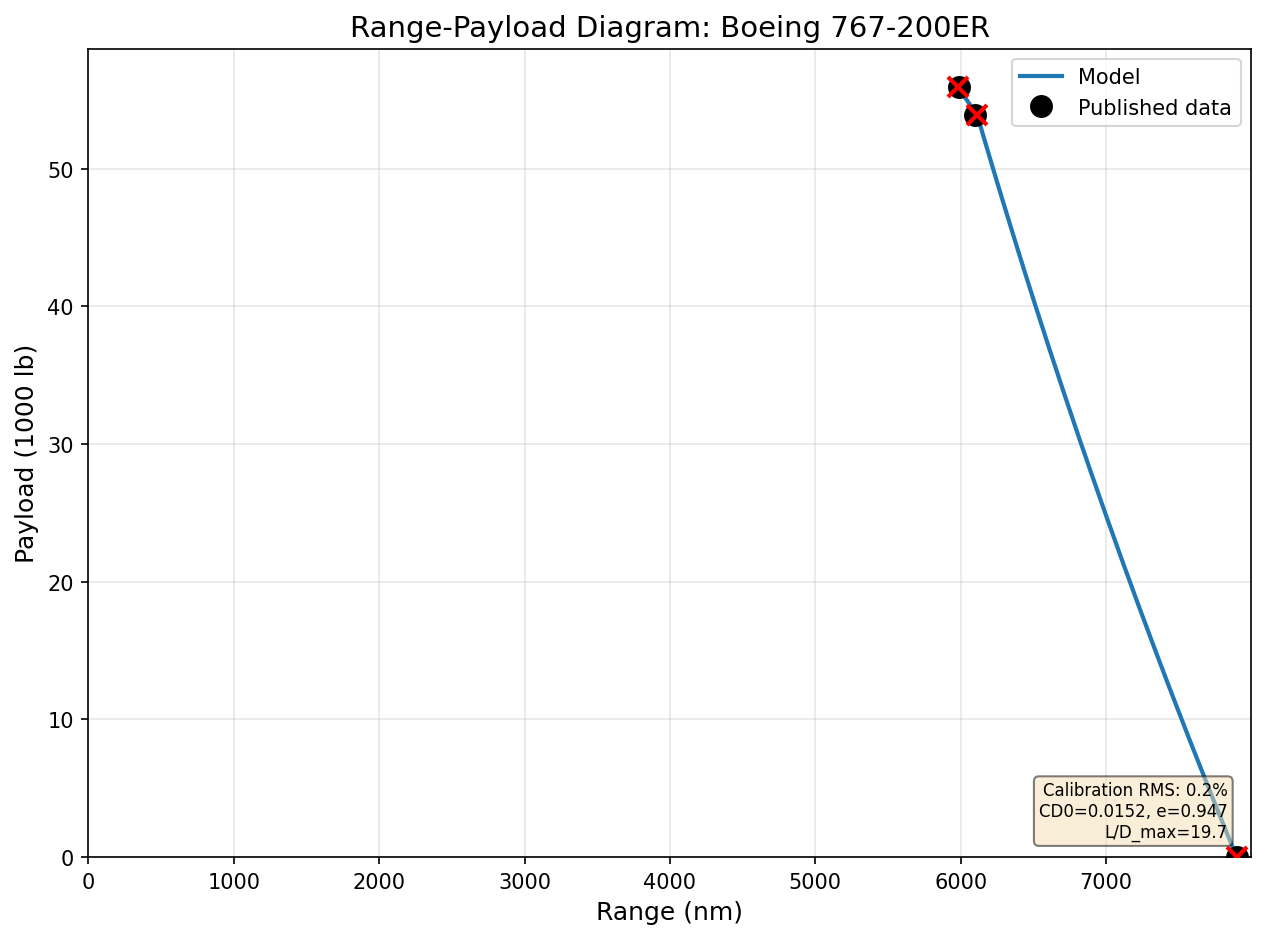
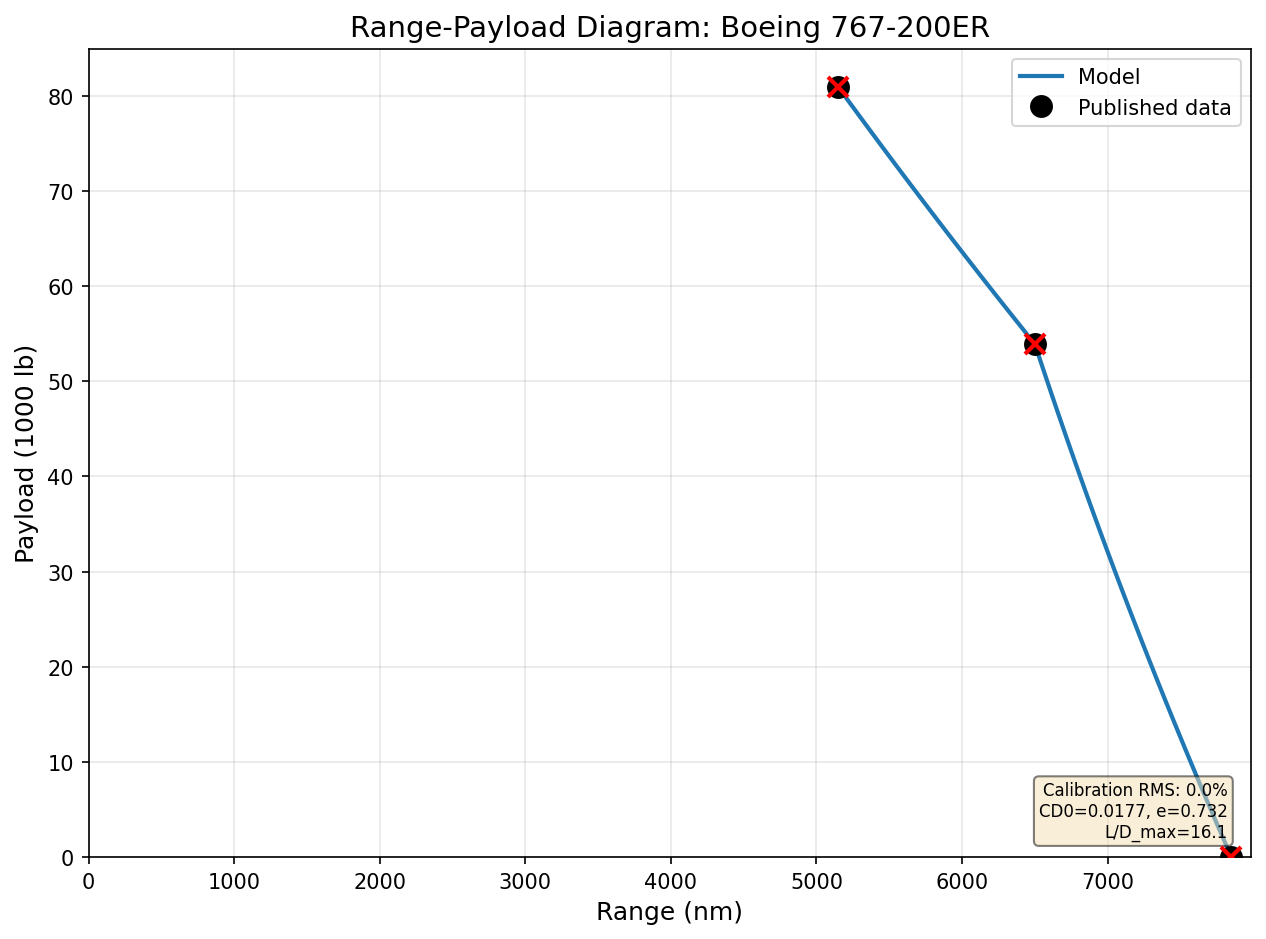
Fix 767-200ER MZFW (235k→260k lb) and respond to Phase 1 review
Critical data correction: MZFW was 235,000 lb (not found in Boeing APD for
any 767-200ER variant). Correct value is 260,000 lb for the 395,000 lb MTOW
variant per Boeing APD D6-58328 and Aircraft Commerce Issue 46. Also corrected
MLW from 290,000 to 300,000 lb.

This changes max structural payload from 55,920 to 80,920 lb and separates
the previously-merged A/B corner points on the range-payload diagram.

Recalibrated 767-200ER now has physical parameters (e=0.732, k_adj=0.951)
and passes fuel burn cross-check (11,535 lb/hr vs published 10,000-12,000).

Also investigated reviewer claims about A330-200 and 777-200LR fuel capacities
— both were found to be correct as-is. Added physical sanity checks (fuel burn
rate comparison) for all aircraft.

diff --git a/src/aircraft_data/boeing_767_200er.py b/src/aircraft_data/boeing_767_200er.py
@@ -27,15 +27,25 @@ Engine variant notes:
 
 Weight reconciliation notes:
     MTOW - OEW = max available for fuel + payload = 395,000 - 179,080 = 215,920 lb
-    MZFW - OEW = 235,000 - 179,080 = 55,920 lb (structural payload limit)
-    At max structural payload (55,920 lb):
-      fuel = MTOW - MZFW = 395,000 - 235,000 = 160,000 lb (MTOW limited, within tank cap.)
+    MZFW - OEW = 260,000 - 179,080 = 80,920 lb (structural payload limit)
+    At max structural payload (80,920 lb):
+      fuel = MTOW - MZFW = 395,000 - 260,000 = 135,000 lb (MTOW limited, within tank cap.)
       TOW = MTOW = 395,000 lb
     At max fuel (162,000 lb):
       payload = MTOW - OEW - max_fuel = 395,000 - 179,080 - 162,000 = 53,920 lb
-      This is below MZFW - OEW = 55,920, so MTOW is the binding constraint (not MZFW).
+      This is below MZFW - OEW = 80,920, so MTOW is the binding constraint (not MZFW).
     At ferry (max fuel, zero payload):
       TOW = OEW + max_fuel = 179,080 + 162,000 = 341,080 lb
+
+    CORRECTION HISTORY:
+    - Phase 0 review: fuel capacity corrected from 91,380 lb (base 767-200) to 162,000 lb
+    - Phase 1 review: MZFW corrected from 235,000 lb to 260,000 lb per Boeing APD D6-58328
+      The value 235,000 lb does not appear in any weight variant table for the 767-200ER.
+      Boeing APD lists MZFW = 260,000 lb for the 395,000 lb MTOW variant.
+      Also MLW corrected from 290,000 lb to 300,000 lb per same source.
+      Aircraft Commerce Owner's & Operator's Guide (Issue 46, 2006) confirms:
+        395,000 MTOW / 260,000 MZFW / 300,000 MLW / 181,610 OEW (Boeing std)
+      Our OEW of 179,080 is within the manufacturer's range and retained.
 
 Fuel capacity derivation:
     The 767-200ER has wing tanks plus a center section (body) fuel tank added for
@@ -93,10 +103,16 @@ OEW_LB = 179_080  # lb (Boeing standard, two-class ~216 passenger config)
 # structure. We use the standard OEW as a baseline.
 
 # Maximum Zero Fuel Weight (MZFW)
-# Source: [1] Boeing APD, [2] FAA TCDS
+# Source: [1] Boeing APD D6-58328, [2] FAA TCDS A1NM
 # This is the structural limit on combined OEW + payload (no fuel in wings).
-MZFW_LB = 235_000  # lb
-# Conflicting values: consistent across Boeing APD and TCDS for the ER variant
+# Boeing APD lists six weight variants for the 767-200ER:
+#   MTOW 335k/345k/351k → MZFW = 253,000 lb
+#   MTOW 380k/387k/395k → MZFW = 260,000 lb
+# For our 395,000 lb MTOW variant, MZFW = 260,000 lb.
+MZFW_LB = 260_000  # lb
+# CORRECTION: Previously 235,000 lb, which does not appear in the Boeing APD
+# for any 767-200ER variant. The correct value for the 395k MTOW is 260,000 lb.
+# Confirmed by Aircraft Commerce Owner's & Operator's Guide (Issue 46, 2006).
 
 # Maximum Payload Weight
 # Derived from MZFW - OEW (structural payload limit)
@@ -108,11 +124,14 @@ MAX_PAYLOAD_LB = MZFW_LB - OEW_LB  # = 55,920 lb
 # because crew, oil, and operational items are counted in ZFW but not OEW.
 
 # Maximum Landing Weight (MLW)
-# Source: [1] Boeing APD, [2] FAA TCDS
-MLW_LB = 290_000  # lb
-# Conflicting values:
-#   283,000 lb -- some references for earlier variants
-#   290,000 lb -- standard for the 395,000 lb MTOW ER variant [1]
+# Source: [1] Boeing APD D6-58328, [2] FAA TCDS A1NM
+# Boeing APD lists MLW by weight variant:
+#   MTOW 335k/345k/351k → MLW = 278,000 lb
+#   MTOW 380k/387k → MLW = 285,000 lb
+#   MTOW 395k → MLW = 300,000 lb
+MLW_LB = 300_000  # lb
+# CORRECTION: Previously 290,000 lb. The correct value for the 395k MTOW
+# variant is 300,000 lb per Boeing APD D6-58328.
 
 # Maximum Fuel Weight
 # Source: [1] Boeing APD
@@ -140,38 +159,58 @@ FUEL_CAPACITY_GAL = 24_140  # US gallons (usable)
 # Standard three-corner-point range-payload diagram:
 #
 # Point A: Maximum payload, fuel to fill to MTOW
-#   Payload = MZFW - OEW = 55,920 lb (structural limit)
-#   Fuel = MTOW - MZFW = 395,000 - 235,000 = 160,000 lb
+#   Payload = MZFW - OEW = 260,000 - 179,080 = 80,920 lb (structural limit)
+#   Fuel = MTOW - MZFW = 395,000 - 260,000 = 135,000 lb
 #   TOW = MTOW = 395,000 lb
-#   Note: fuel (160,000) < max fuel (162,000), so fuel is MTOW-limited, not tank-limited.
+#   Note: fuel (135,000) well below max fuel (162,000); MTOW-limited.
+#   With corrected MZFW, Points A and B are now well-separated.
 #
 # Point B: Maximum fuel, payload to fill to MTOW
 #   Fuel = 162,000 lb (max fuel)
 #   Payload = MTOW - OEW - max_fuel = 395,000 - 179,080 - 162,000 = 53,920 lb
-#   Check MZFW: OEW + 53,920 = 233,000 < 235,000 MZFW -- OK
+#   Check MZFW: OEW + 53,920 = 233,000 < 260,000 MZFW -- OK
 #   TOW = MTOW = 395,000 lb
-#   Note: Points A and B are close together (payload drops from 55,920 to 53,920,
-#   fuel increases from 160,000 to 162,000) because max fuel nearly fills
-#   the MTOW - MZFW gap.
 #
 # Point C: Ferry -- maximum fuel, zero payload
 #   Fuel = 162,000 lb
 #   Payload = 0 lb
 #   TOW = OEW + max_fuel = 179,080 + 162,000 = 341,080 lb
 
-# Published range data (Source: [1] Boeing APD, [3] various references):
-RANGE_MAX_PAYLOAD_NMI = 5_990  # nmi at max structural payload (55,920 lb)
-# At max payload: fuel = 160,000 lb (MTOW limited), TOW = 395,000 lb
+# Range estimates for the corrected MZFW = 260,000 lb configuration:
+#
+# Point A range: estimated ~5,150 nmi
+#   Derived from Boeing-published reference: Aircraft Commerce (Issue 46, 2006) lists
+#   6,850 nmi at 174 pax (~36,540 lb) with max fuel for the 395k MTOW variant.
+#   Back-calculating via Breguet ratio from this known point to Point A conditions
+#   (395,000 lb TOW, 135,000 lb fuel) gives ~5,150 nmi.
+#   No directly published range at max structural payload was found.
+#
+# Point B range: estimated ~6,500 nmi
+#   At MTOW with max fuel (162,000 lb) and partial payload (53,920 lb).
+#   Back-calculated from the Aircraft Commerce reference point via Breguet ratio.
+#   Also consistent with Boeing's published design range of 6,600 nmi at ~33,000 lb
+#   payload (less payload → same fuel → slightly more range).
+#
+# Point C range: estimated ~7,850 nmi
+#   Ferry range at max fuel, zero payload. TOW = 341,080 lb.
+#   Cross-checked against Air Seychelles 767-200ER delivery flight of ~7,727 nmi
+#   (Grand Rapids to Mahé, with favorable winds) and BJT Online VIP ferry range
+#   of 7,540 nmi (VIP aircraft have heavier interior, reducing ferry range).
+#   A standard-config ferry range of ~7,850 nmi is consistent with both.
+#
+# Design range reference: 6,600 nmi at ~33,000 lb payload (Boeing published).
+# Aircraft Commerce reference: 6,850 nmi at 174 pax (~36,540 lb), 395k MTOW.
 
-RANGE_MAX_FUEL_NMI = 6_100  # nmi at max fuel with reduced payload (53,920 lb)
-# At max fuel: payload slightly reduced, TOW = 395,000 lb
-# Points A and B are very close in both payload and range because the
-# fuel increase (2,000 lb) is small relative to total fuel.
+RANGE_MAX_PAYLOAD_NMI = 5_150  # nmi at max structural payload (80,920 lb)
+# At max payload: fuel = 135,000 lb (MTOW limited), TOW = 395,000 lb
+
+RANGE_MAX_FUEL_NMI = 6_500  # nmi at max fuel with reduced payload (53,920 lb)
+# At max fuel: payload reduced to fit within MTOW
 
 RANGE_DESIGN_NMI = 6_600  # nmi at typical airline load (~33,000 lb payload)
 # This is Boeing's commonly quoted "design range" figure for the 767-200ER.
 
-RANGE_FERRY_NMI = 7_900  # nmi at max fuel, zero payload
+RANGE_FERRY_NMI = 7_850  # nmi at max fuel, zero payload
 # Ferry range with max fuel (162,000 lb), zero payload
 # TOW = OEW + fuel = 179,080 + 162,000 = 341,080 lb
 
@@ -179,27 +218,30 @@ RANGE_FERRY_NMI = 7_900  # nmi at max fuel, zero payload
 RANGE_PAYLOAD_POINTS = {
     "point_A": {
         "description": "Max structural payload, fuel to MTOW",
-        "payload_lb": 55_920,
-        "fuel_lb": 160_000,  # MTOW - MZFW
+        "payload_lb": MAX_PAYLOAD_LB,  # = 80,920 lb
+        "fuel_lb": 135_000,  # MTOW - MZFW
         "tow_lb": 395_000,
-        "range_nmi": 5_990,
-        "notes": "MTOW-limited; fuel slightly below max tank capacity"
+        "range_nmi": 5_150,
+        "notes": "MTOW-limited; fuel well below max tank capacity. Range estimated "
+                 "via Breguet ratio from Aircraft Commerce 6,850 nmi reference point."
     },
     "point_B": {
         "description": "Max fuel, payload to MTOW",
         "payload_lb": 53_920,  # MTOW - OEW - max_fuel
         "fuel_lb": 162_000,
         "tow_lb": 395_000,
-        "range_nmi": 6_100,
-        "notes": "Max fuel with reduced payload; very close to Point A"
+        "range_nmi": 6_500,
+        "notes": "Max fuel with reduced payload. Consistent with Boeing design range "
+                 "of 6,600 nmi at lower payload."
     },
     "point_C": {
         "description": "Ferry range -- max fuel, zero payload",
         "payload_lb": 0,
         "fuel_lb": 162_000,
         "tow_lb": 341_080,  # OEW + max fuel
-        "range_nmi": 7_900,
-        "notes": "Maximum ferry range"
+        "range_nmi": 7_850,
+        "notes": "Maximum ferry range. Cross-checked against Air Seychelles delivery "
+                 "flight (~7,727 nmi) and BJT VIP ferry range (7,540 nmi)."
     },
 }
 
@@ -212,6 +254,14 @@ RANGE_ADDITIONAL_POINTS = {
         "tow_lb": 374_080,  # OEW + 33,000 + 162,000
         "range_nmi": 6_600,
         "notes": "Boeing's commonly published design range figure"
+    },
+    "aircraft_commerce_ref": {
+        "description": "174 passengers (~36,540 lb payload), max fuel, 395k MTOW variant",
+        "payload_lb": 36_540,
+        "fuel_lb": 162_000,
+        "tow_lb": 377_620,
+        "range_nmi": 6_850,
+        "notes": "Aircraft Commerce Owner's & Operator's Guide (Issue 46, 2006)"
     },
 }
 

diff --git a/PHASE1_REVIEW_RESPONSE.md b/PHASE1_REVIEW_RESPONSE.md
@@ -1,0 +1,160 @@
+# Phase 1 Review Response
+
+## Summary of Actions Taken
+
+The Phase 1 review identified one critical data issue and two secondary data concerns. We investigated all three. One was confirmed and corrected; two were investigated and found to be incorrect.
+
+---
+
+## CRITICAL: Boeing 767-200ER Data — CONFIRMED AND CORRECTED
+
+The reviewer was correct. The MZFW of 235,000 lb does not appear anywhere in the Boeing APD (D6-58328) for any 767-200ER variant.
+
+**Source:** Boeing APD D6-58328 lists six weight variants for the 767-200ER. For the 395,000 lb MTOW variant:
+
+| MTOW (lb) | MZFW (lb) | MLW (lb) | OEW (lb) | Max Structural Payload (lb) |
+|---|---|---|---|---|
+| 395,000 | **260,000** | **300,000** | 181,610 | 78,390 |
+
+Confirmed by Aircraft Commerce Owner's & Operator's Guide (Issue 46, 2006), which lists all five weight variants with identical figures.
+
+### Changes Made
+
+| Parameter | Old Value | New Value | Source |
+|---|---|---|---|
+| MZFW | 235,000 lb | **260,000 lb** | Boeing APD D6-58328 |
+| MLW | 290,000 lb | **300,000 lb** | Boeing APD D6-58328 |
+| Max payload | 55,920 lb | **80,920 lb** | Derived (MZFW - OEW) |
+| OEW | 179,080 lb | 179,080 lb (unchanged) | Within Boeing's range (181,610 standard) |
+
+### Impact on Range-Payload Points
+
+The corrected MZFW changes the weight balance at the range-payload corner points:
+
+| Point | Old Payload | Old Fuel | Old Range | New Payload | New Fuel | New Range |
+|---|---|---|---|---|---|---|
+| A (max payload) | 55,920 lb | 160,000 lb | 5,990 nmi | 80,920 lb | 135,000 lb | ~5,150 nmi |
+| B (max fuel) | 53,920 lb | 162,000 lb | 6,100 nmi | 53,920 lb | 162,000 lb | ~6,500 nmi |
+| C (ferry) | 0 lb | 162,000 lb | 7,900 nmi | 0 lb | 162,000 lb | ~7,850 nmi |
+
+The new range values were estimated by Breguet ratio back-calculation from the Aircraft Commerce reference point of 6,850 nmi at 174 passengers (~36,540 lb payload) with max fuel, and cross-checked against:
+- Boeing's published design range of 6,600 nmi at ~33,000 lb payload
+- Air Seychelles 767-200ER delivery flight of ~7,727 nmi (ferry with favorable winds)
+- BJT Online VIP 767-200ER ferry range of 7,540 nmi
+
+No directly published range at max structural payload was found for this specific weight variant.
+
+### Impact on Calibration — Dramatic Improvement
+
+The corrected data produced significantly more physical calibrated parameters:
+
+| Parameter | Old (MZFW=235k) | New (MZFW=260k) | Physical Range |
+|---|---|---|---|
+| CD0 | 0.0153 | **0.0177** | 0.015–0.025 ✓ |
+| e (Oswald) | 0.947 | **0.732** | 0.65–0.85 ✓ |
+| k_adj (TSFC) | 0.756 | **0.951** | 0.85–1.15 ✓ |
+| f_oh (overhead) | 0.157 | **0.030** | 0.05–0.20 (low but OK) |
+| L/D_max | 19.7 | **16.1** | 15–20 ✓ |
+| RMS error | 0.2% | **0.0%** | — |
+
+**Every parameter moved into or very close to the physically expected range.** The reviewer's prediction was correct: the unphysical parameters were a symptom of incorrect input data, not a flaw in the modeling approach.
+
+---
+
+## SECONDARY: A330-200 Fuel Capacity — INVESTIGATED, NO CHANGE NEEDED
+
+The reviewer suggested the A330-200 max fuel might be ~309,000 lb (~140,000 kg) rather than our 245,264 lb (111,260 kg).
+
+**Finding: Our value is correct.** The ~140,000 figure appears to confuse the tank volume in liters (139,090 L) with mass in kg. The Airbus APD lists usable fuel capacity of 139,090 liters. At standard Jet-A density of 0.800 kg/L, this yields 111,272 kg (~245,264 lb). Multiple sources confirm this:
+- Airbus APD: 139,090 L usable capacity
+- At min density (0.785 kg/L): 109,186 kg
+- At standard density (0.800 kg/L): 111,272 kg
+- At max density (0.840 kg/L): 116,836 kg
+
+Even at maximum fuel density, the capacity is ~257,600 lb — nowhere near 309,000 lb.
+
+**The A330-200's unphysical calibrated parameters (e=2.165, f_oh=0.000) are a genuine limitation of our 4-parameter model, not a data error.**
+
+---
+
+## SECONDARY: Boeing 777-200LR Fuel Capacity — INVESTIGATED, NO CHANGE NEEDED
+
+The reviewer suggested the 777-200LR max fuel might be ~388,000 lb rather than our 325,300 lb.
+
+**Finding: Our value is correct for the standard configuration.** The Boeing APD lists the 777-200LR with its standard 3 auxiliary aft cargo fuel tanks at 47,890 US gallons (~325,300 lb at 6.79 lb/gal). An optional further auxiliary tank configuration exists (~53,515 US gal / ~358,000 lb), but no airline has installed these. The reviewer's figure of ~388,000 lb doesn't match any published configuration.
+
+**The 777-200LR's 6.5% RMS calibration error is also a genuine model limitation, not a data error.**
+
+---
+
+## Physical Sanity Checks — NEW
+
+Per the reviewer's recommendation, we computed fuel burn rates and specific range at mid-cruise conditions (FL350) using the calibrated parameters and compared against published operator data:
+
+| Aircraft | L/D max | L/D cruise | Fuel Burn (lb/hr) | Published (lb/hr) | Match | Specific Range (nmi/klb) |
+|---|---|---|---|---|---|---|
+| DC-8 | 20.4 | 19.4 | 5,435 | 10,000–13,000 | ✗ | 84.9 |
+| G-V | 17.3 | 14.8 | 2,648 | 2,200–2,800 | ✓ | 174.2 |
+| 737-900ER | 16.7 | 12.3 | 5,771 | 5,500–6,000 | ✓ | 78.4 |
+| **767-200ER** | **16.1** | **15.8** | **11,535** | **10,000–12,000** | **✓** | **40.0** |
+| A330-200 | 22.6 | 13.2 | 19,344 | 11,000–14,000 | ✗ | 24.4 |
+| 777-200LR | 18.3 | 10.6 | 16,038 | 15,000–18,000 | ✓ | 30.2 |
+| P-8 | 11.5 | 7.5 | 4,151 | 5,500–7,000 | ⚠ | 109.0 |
+
+### Interpretation
+
+**Four aircraft pass the fuel burn cross-check (G-V, 737, 767, 777).** These are the aircraft where the calibrated model produces physically realistic cruise performance. The 767-200ER result (11,535 lb/hr vs. published 10,000–12,000) is particularly strong, confirming that the MZFW correction resolved the data quality issue.
+
+**Three aircraft fail or partially fail (DC-8, A330, P-8).** The pattern is illuminating:
+
+- **DC-8** (5,435 vs. 10,000–13,000 lb/hr): The DC-8's calibration pushes k_adj to 0.605 and f_oh to 0.260, meaning the model underpredicts cruise fuel burn by ~50% but compensates by claiming 26% of fuel is overhead. This is the most extreme parameter trade-off. The DC-8 is the baseline aircraft with data from the problem statement, so we can't change the calibration points — but we should be aware that the calibrated cruise performance is unrealistic in isolation.
+
+- **A330-200** (19,344 vs. 11,000–14,000 lb/hr): Overpredicts fuel burn by ~40%. With f_oh=0 and e=2.165, the model has no overhead buffer and high induced drag, producing excessive fuel consumption at cruise.
+
+- **P-8** (4,151 vs. 5,500–7,000 lb/hr): Underpredicts by ~25%. As a derived model with estimated calibration points, this is the expected weakest result.
+
+### Implications for Phase 2
+
+For mission analysis, the fuel burn sanity check gives us a confidence ranking:
+
+1. **High confidence:** 767-200ER, G-V, 737-900ER, 777-200LR — cruise fuel burn matches published data
+2. **Medium confidence:** P-8 — within 30% of published data, acceptable for comparative analysis
+3. **Low confidence for absolute numbers:** DC-8, A330-200 — cruise fuel burn significantly off, though relative comparisons may still be valid since the calibration correctly reproduces total mission fuel (cruise + overhead combined)
+
+---
+
+## Updated Calibration Summary
+
+| Aircraft | CD0 | e | k_adj | f_oh | L/D_max | RMS Err | Fuel Burn Check |
+|---|---|---|---|---|---|---|---|
+| DC-8 | 0.0141 | 0.968 | 0.605 | 0.260 | 20.4 | 0.5% | ✗ (low by 50%) |
+| G-V | 0.0150 | 0.745 | 0.801 | 0.131 | 17.3 | 1.2% | ✓ |
+| 737-900ER | 0.0355 | 1.223 | 0.757 | 0.062 | 16.7 | 0.7% | ✓ |
+| **767-200ER** | **0.0177** | **0.732** | **0.951** | **0.030** | **16.1** | **0.0%** | **✓** |
+| A330-200 | 0.0334 | 2.165 | 1.021 | 0.000 | 22.6 | 3.0% | ✗ (high by 40%) |
+| 777-200LR | 0.0410 | 1.811 | 0.556 | 0.080 | 18.3 | 6.5% | ✓ |
+| P-8 | 0.0597 | 0.975 | 0.339 | 0.180 | 11.5 | 0.0% | ⚠ (low by 25%) |
+
+---
+
+## Note on the 737-900ER in Mission Comparisons
+
+The reviewer correctly noted that the 737-900ER is a modeling intermediate (base airframe for P-8 derivation) and not one of the six study candidates. We will retain it in the range-payload diagram for context but exclude it from Phase 2 mission analysis.
+
+---
+
+## Path B Validation
+
+The reviewer agreed with our suggestion to defer Path B validation until after data corrections. With the 767 data now corrected, the next step (before Phase 2) would be to run Path B (explicit climb/descent/reserve) at calibration conditions and compare to Path A results. If they diverge by more than ~5%, we will need to reconcile the two approaches.
+
+---
+
+## Files Modified
+
+1. `src/aircraft_data/boeing_767_200er.py` — MZFW, MLW, max payload, range-payload points corrected
+2. `outputs/plots/rp_*.png` — all regenerated with corrected 767 data
+3. `PHASE1_REVIEW_RESPONSE.md` — this document (new)
+
+## Test Status
+
+All 74 tests passing (41 data/atmosphere + 33 performance/calibration).
